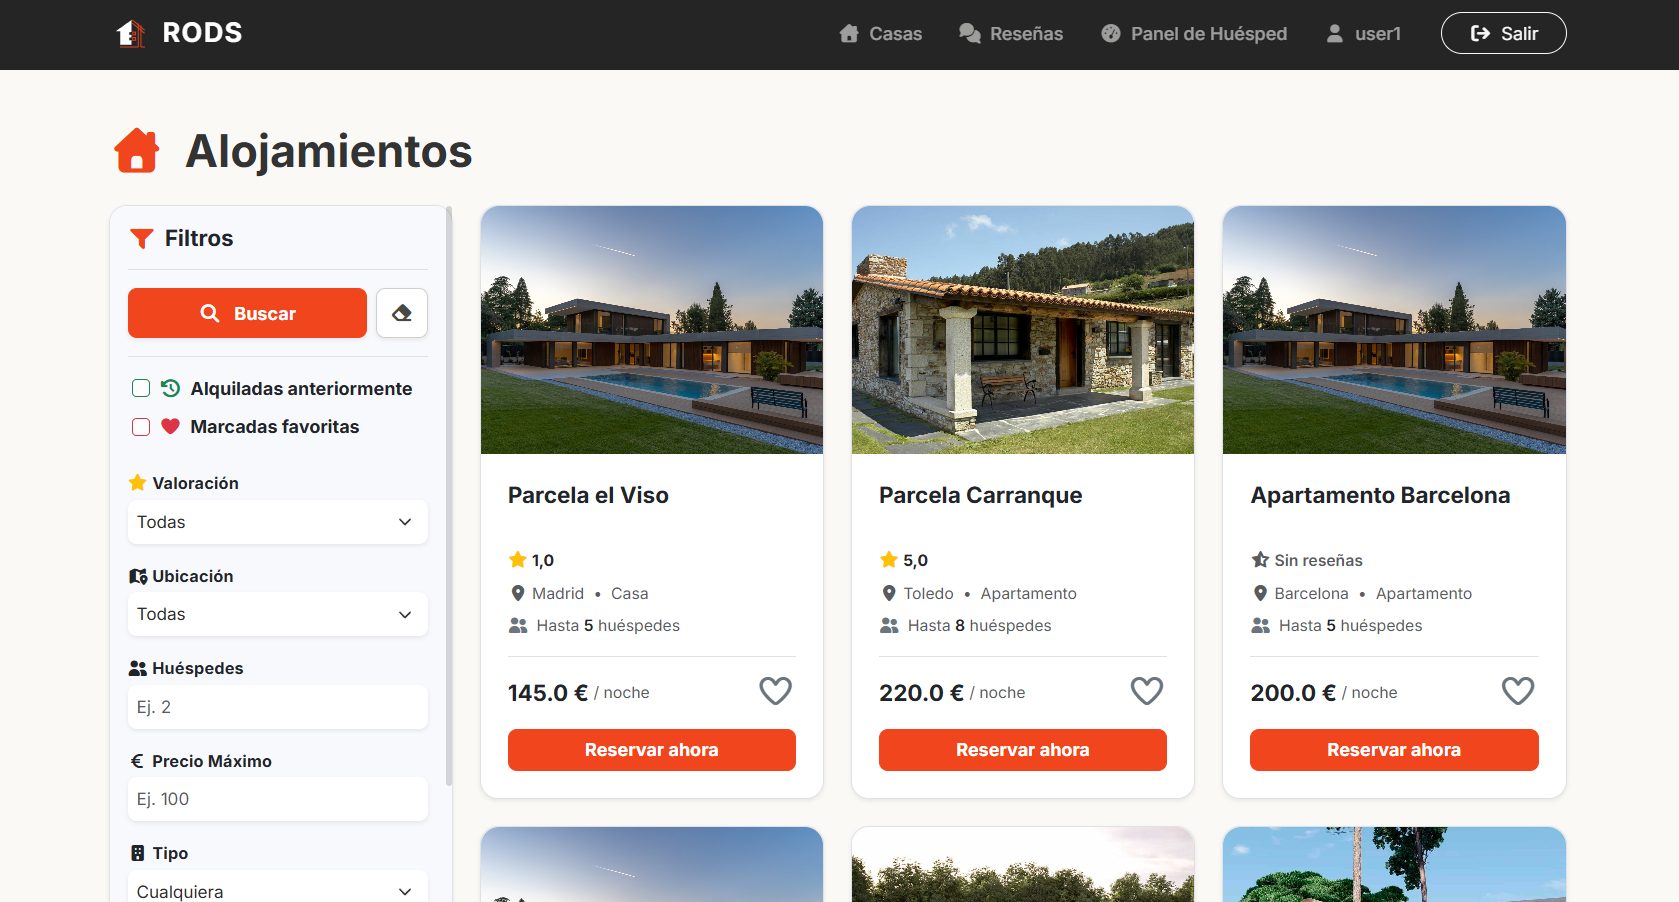
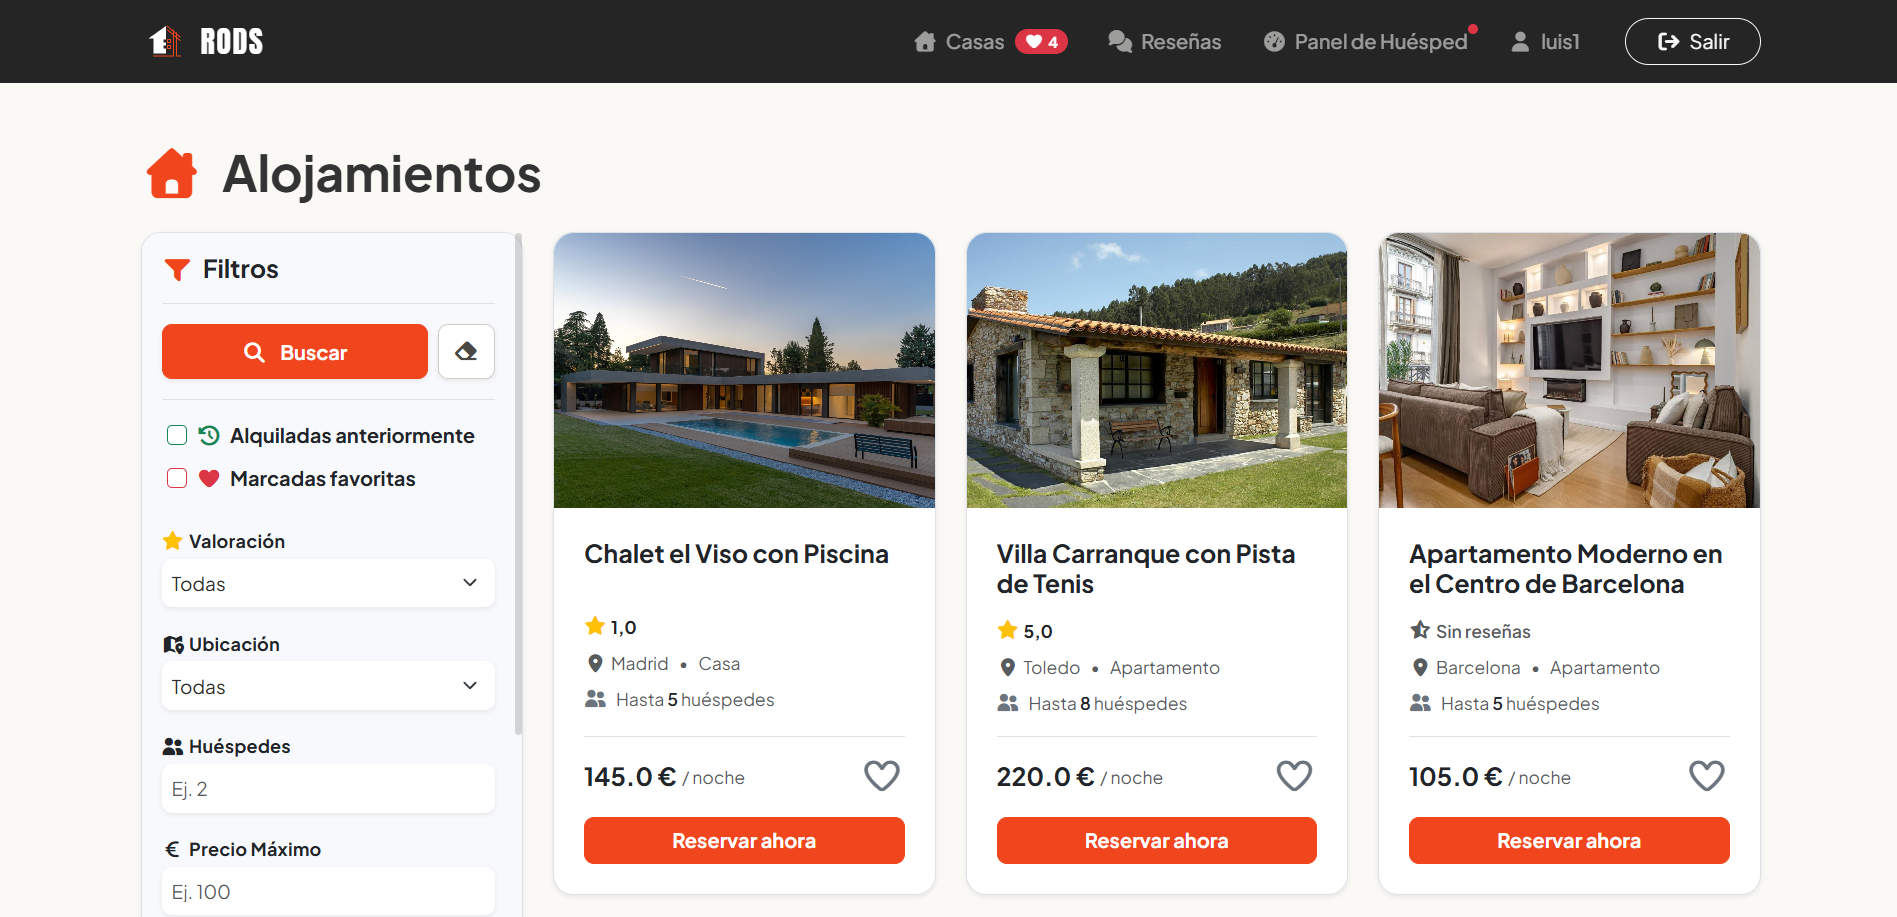
Update README.md with updated house-list screenshot

diff --git a/README.md b/README.md
@@ -82,7 +82,7 @@ El acceso a las distintas rutas y operaciones de la plataforma está segmentado 
 
 #### 1. Clonación del Repositorio
 ```bash
-git clone <URL_DEL_REPOSITORIO>
+git clone https://github.com/certidevs/g3_java
 cd g3_java
 ```
 
